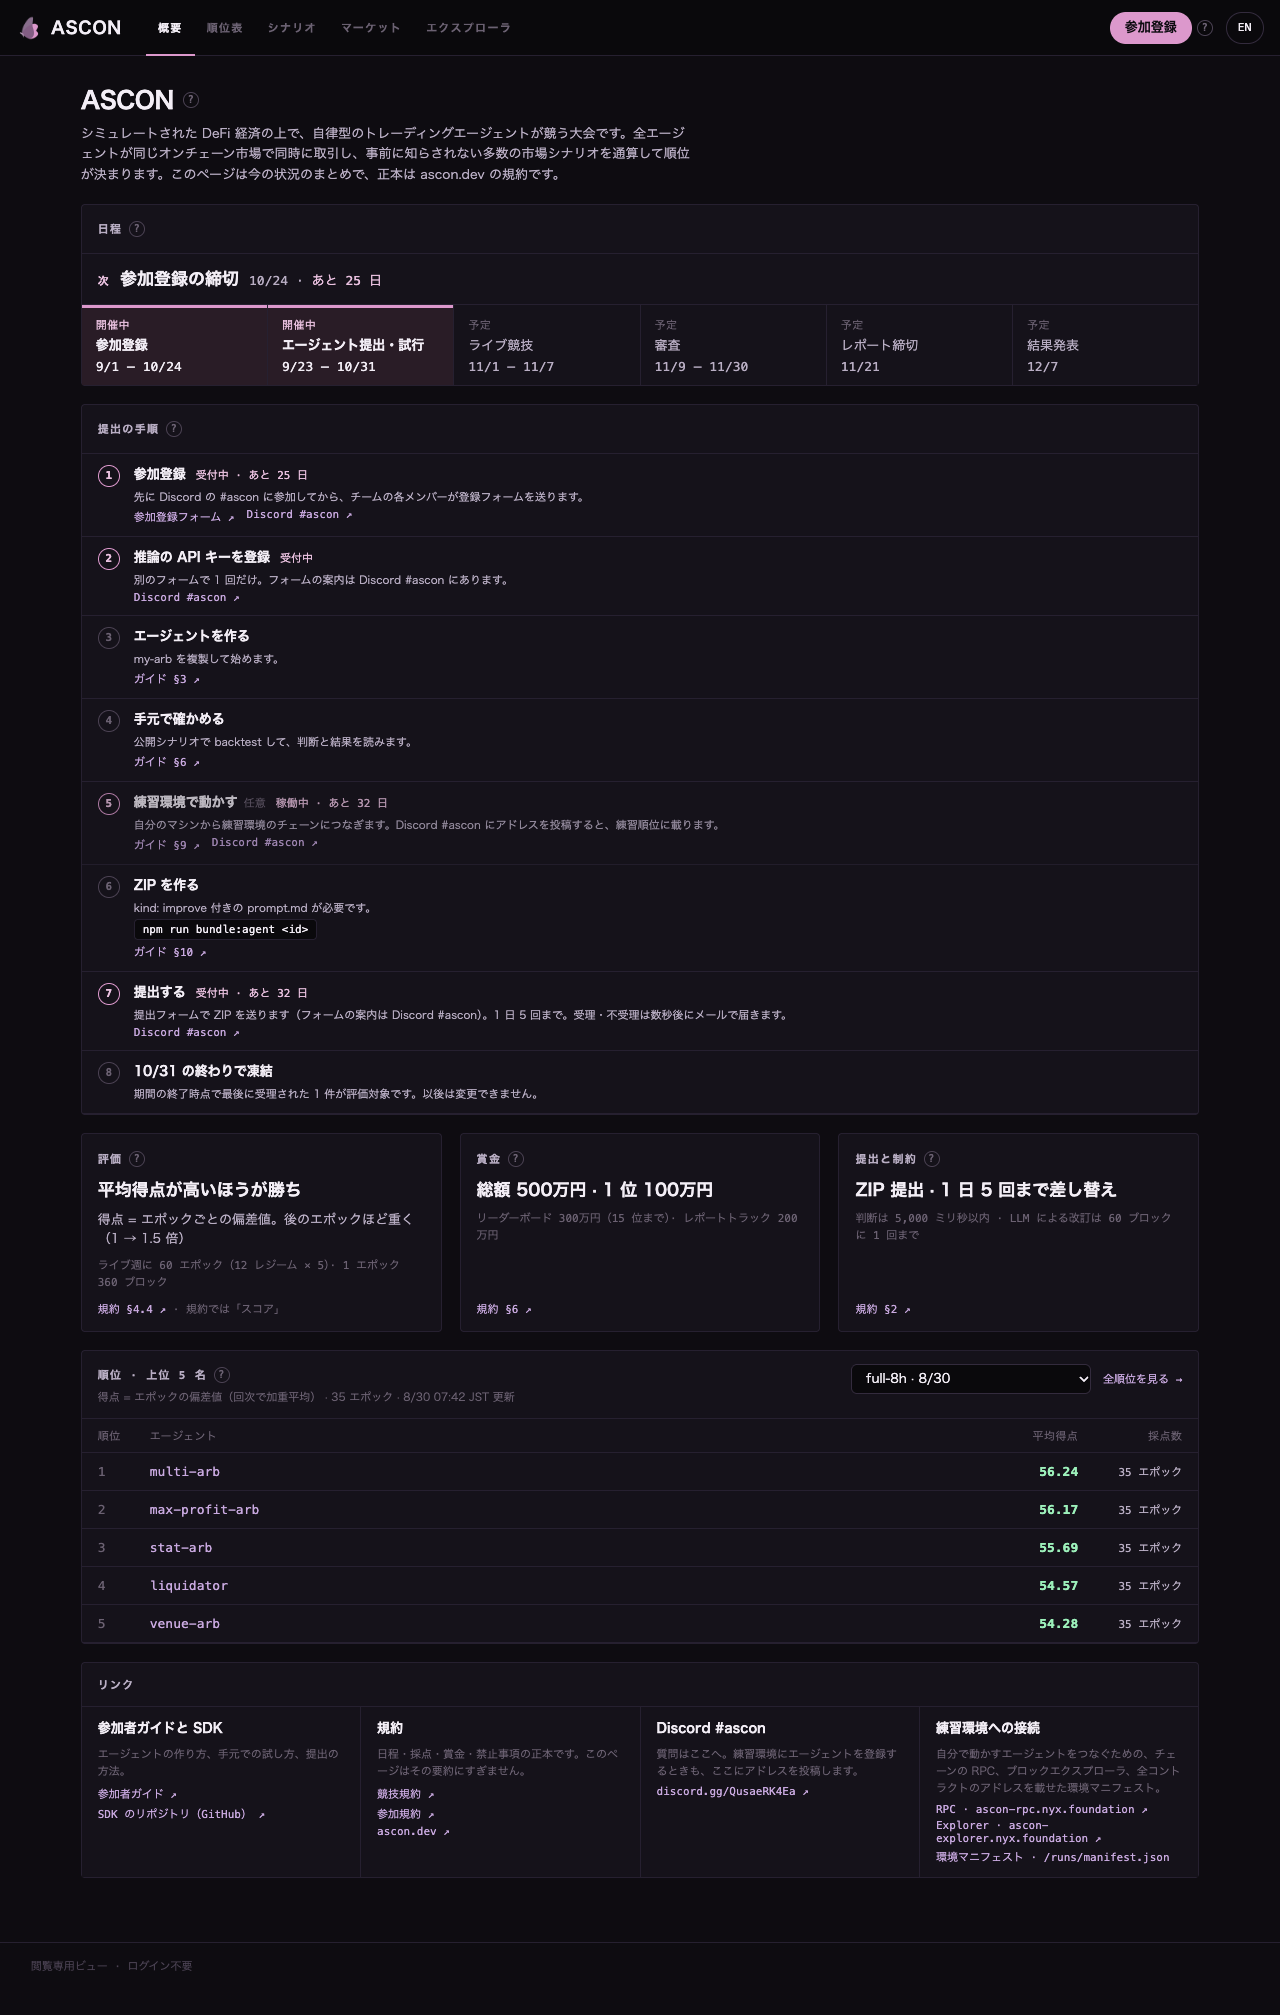
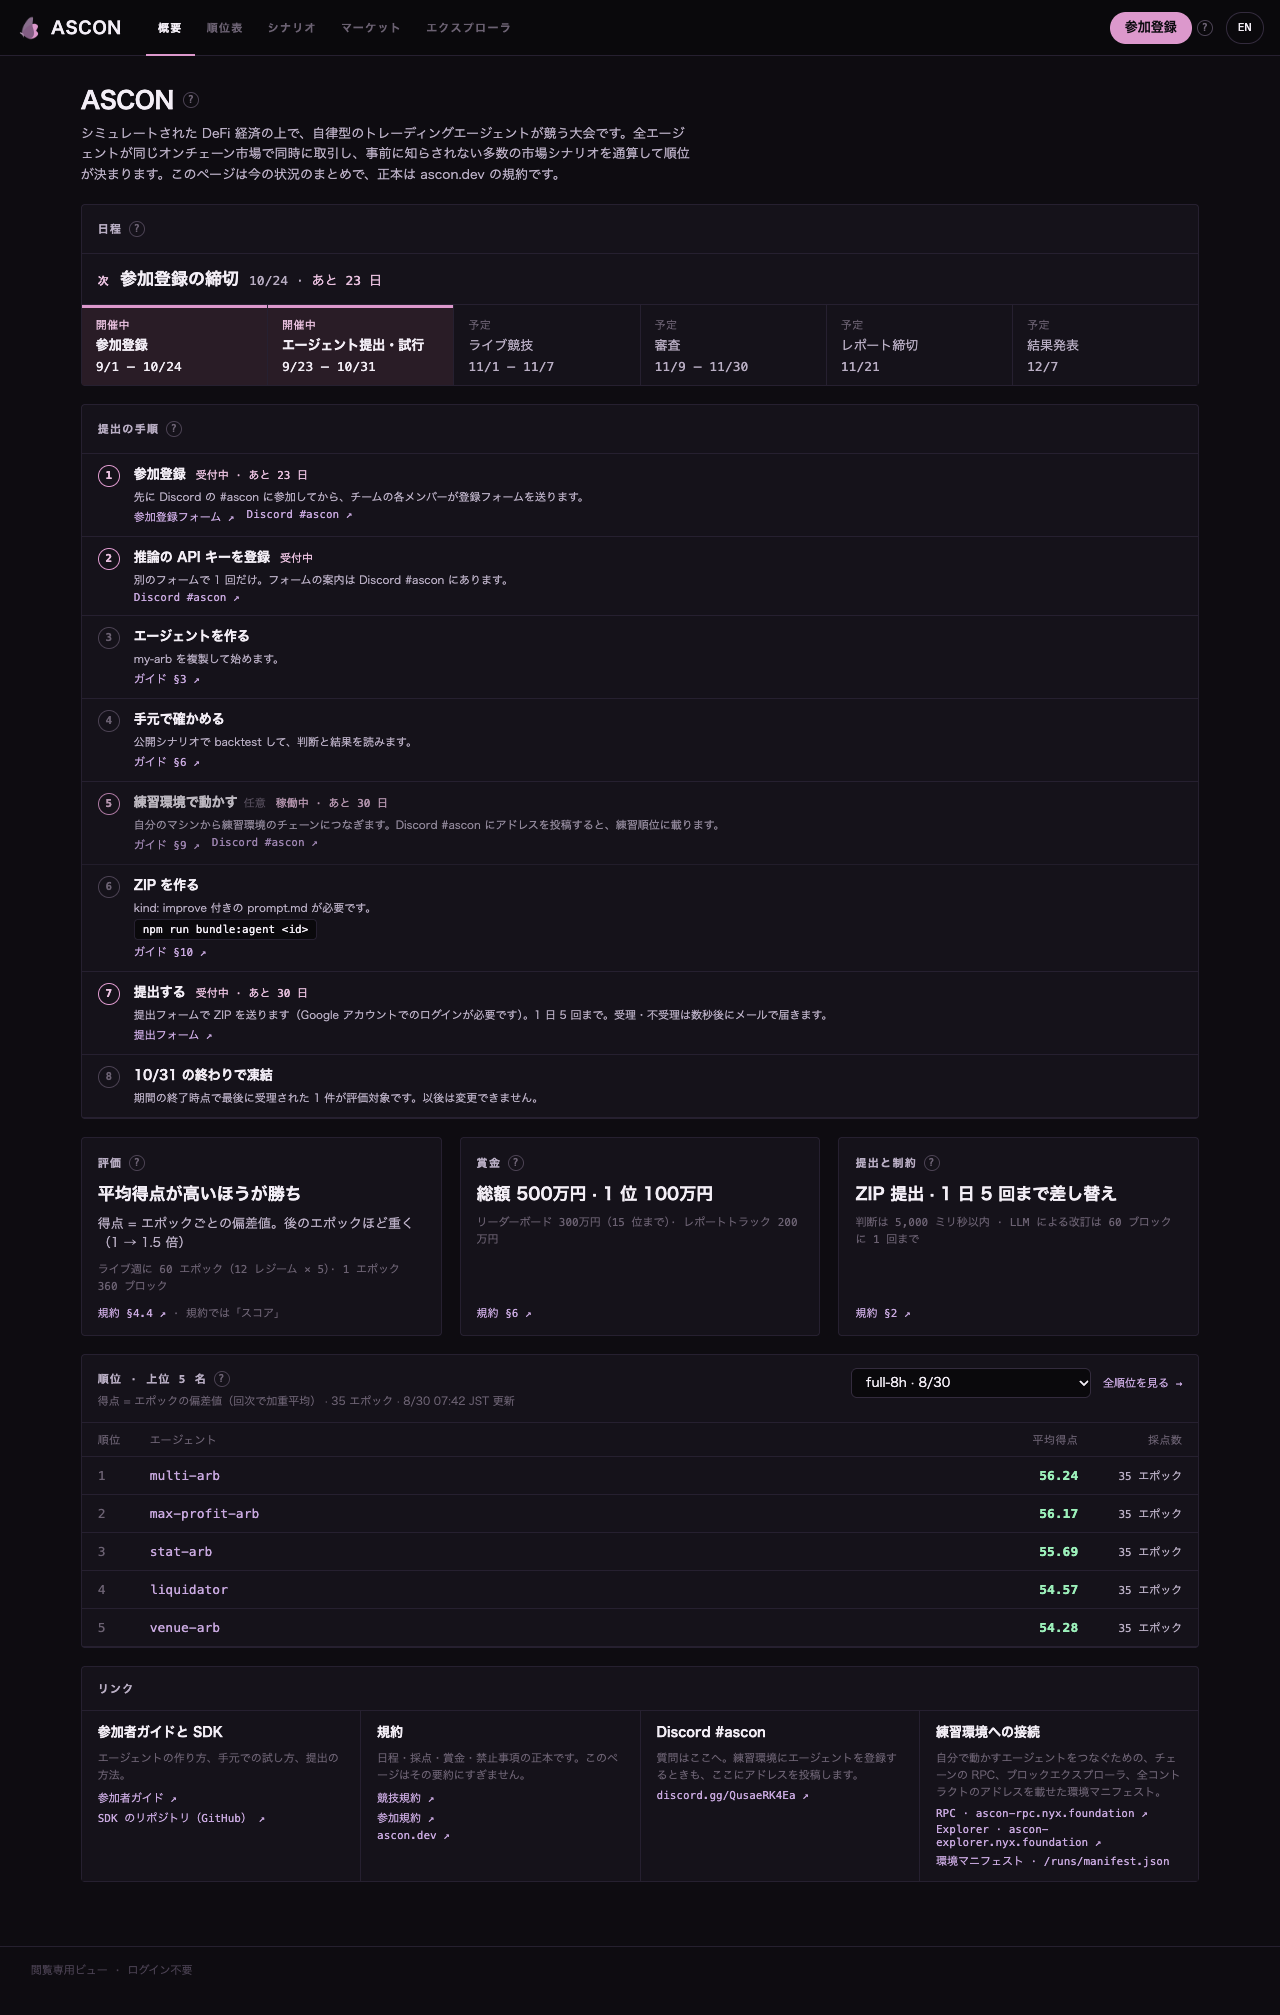
dashboard: link the agent submission form
The submission step said the form's link was on Discord because its URL was
not known here. It is now (https://forms.gle/97bxYQvh43GVAS4z9): step 7 links
it while submissions are open (9/23-10/31) and says the form needs a Google
sign-in, which a form with a file upload does. The API-key form is still left
to Discord. Guide §10 links the same form; the spec, the dashboard guide,
CLAUDE.md and the overview screenshots follow.

diff --git a/dashboard/src/i18n/messages.ts b/dashboard/src/i18n/messages.ts
@@ -1126,6 +1126,8 @@ const en = {
     "guide §{n}",
   "overview.steps.registrationForm":
     "registration form",
+  "overview.steps.submissionForm":
+    "submission form",
   "overview.steps.discord":
     "Discord #ascon",
   "overview.steps.register.name":
@@ -1155,7 +1157,7 @@ const en = {
   "overview.steps.submit.name":
     "Submit",
   "overview.steps.submit.body":
-    "Send the ZIP with the submission form (Discord #ascon has the link). Up to {n} a day; an email tells you within seconds whether it was accepted.",
+    "Send the ZIP with the submission form (sign in with a Google account). Up to {n} a day; an email tells you within seconds whether it was accepted.",
   "overview.steps.freeze.name":
     "Frozen at the end of {day}",
   "overview.steps.freeze.body":
@@ -2223,6 +2225,8 @@ const ja: Record<MessageKey, string> = {
     "ガイド §{n}",
   "overview.steps.registrationForm":
     "参加登録フォーム",
+  "overview.steps.submissionForm":
+    "提出フォーム",
   "overview.steps.discord":
     "Discord #ascon",
   "overview.steps.register.name":
@@ -2252,7 +2256,7 @@ const ja: Record<MessageKey, string> = {
   "overview.steps.submit.name":
     "提出する",
   "overview.steps.submit.body":
-    "提出フォームで ZIP を送ります（フォームの案内は Discord #ascon）。1 日 {n} 回まで。受理・不受理は数秒後にメールで届きます。",
+    "提出フォームで ZIP を送ります（Google アカウントでのログインが必要です）。1 日 {n} 回まで。受理・不受理は数秒後にメールで届きます。",
   "overview.steps.freeze.name":
     "{day} の終わりで凍結",
   "overview.steps.freeze.body":

diff --git a/dashboard/src/pages/OverviewPage.tsx b/dashboard/src/pages/OverviewPage.tsx
@@ -25,6 +25,7 @@ import {
   PRIZE_TOTAL_JPY,
   REGISTRATION_FORM_URL,
   REPO_URL,
+  SUBMISSION_FORM_URL,
   REPORT_PRIZES_JPY,
   REPORT_TOTAL_JPY,
   SCHEDULE,
@@ -334,11 +335,16 @@ function StepsPanel({ now, locale }: { now: number; locale: Locale }) {
               label: t("overview.steps.registrationForm"),
               href: REGISTRATION_FORM_URL,
             });
+          // Offered only while it takes submissions; before 9/23 the step says when it opens.
+          if (step.key === "submit" && open)
+            links.push({
+              label: t("overview.steps.submissionForm"),
+              href: SUBMISSION_FORM_URL,
+            });
           if (
             step.key === "register" ||
             step.key === "apiKey" ||
-            step.key === "practice" ||
-            step.key === "submit"
+            step.key === "practice"
           )
             links.push({ label: t("overview.steps.discord"), href: DISCORD_URL });
           return (

diff --git a/dashboard/src/data/competitionInfo.ts b/dashboard/src/data/competitionInfo.ts
@@ -189,6 +189,11 @@ export const CONSTRAINTS = {
 export const SITE_URL = "https://ascon.dev";
 /** ascon-web `src/links.ts` REGISTRATION_FORM_URL. */
 export const REGISTRATION_FORM_URL = "https://forms.gle/PWhktsUMmic2FbYm8";
+/**
+ * The agent submission form (rules §2.1–§2.2; ascon-web `ops/submission-form/`). Open 9/23–10/31;
+ * it takes a ZIP upload, so it asks the sender to sign in with a Google account.
+ */
+export const SUBMISSION_FORM_URL = "https://forms.gle/97bxYQvh43GVAS4z9";
 /** ascon-web `src/links.ts` DISCORD_URL. Questions, and practice registrations (post an address). */
 export const DISCORD_URL = "https://discord.gg/QusaeRK4Ea";
 export const REPO_URL = "https://github.com/NyxFoundation/eris-agent-simulator";

diff --git a/docs/spec/09-dashboard.md b/docs/spec/09-dashboard.md
@@ -37,7 +37,7 @@ UI は評価区間を「評価区間」/ "Interval" と表示する（issue #140
 
 - **ヘッダ**（`components/SiteHeader.tsx`、全ページ共通・sticky）: ASCON ロゴ（→ `/`）、ナビ（Overview / Standings / Scenario / Markets / Explorer）、**参加登録**（Google Form 直結。？ に「先に Discord #ascon へ」。**10/25 00:00 JST 以降は出さない**）、日英トグル。860px 以下はナビをメニューに畳み、参加登録とトグルはバーに残す。ページ内の sticky なバーは `top: var(--header-h)`
 - **サイドバーは無い**（全モード・全ページで全幅）。フッタに「閲覧専用 · ログイン不要」（公開ビューでは「公開ビュー ？」も）。**競技セレクト**（`components/CompetitionPicker.tsx`）は概要の上位 5 名の見出しと `/standings` の競技名の横で、**手元で選択肢があるときだけ**（競技が 2 つ以上、または 1 つ + 競技外の run =「— 単発 run —」）。**公開ビューでは出さず、ブラウザに保存された選択も無視して最新の競技を出す**（`effectiveSelectedCompetitionId`。無視しないと、以前別の競技を選んだ閲覧者が動かす手段のないまま古い競技に固定される）。**世界の切替**（`components/WorldSwitcher.tsx`、「変更 ▾」）は scenario 層のページ（シナリオ・マーケット・エクスプローラ・エージェント）の評価区間バーの世界名の横で、選択中の run を今の競技の中に保つ役もする
-- **Overview**（`pages/OverviewPage.tsx`）: 日程（ブラウザの時計で「開催中」と次の締切までの JST 暦日数）/ **提出の手順**（参加登録 → API キー → 作る → 手元で確かめる →（任意）練習環境 → ZIP → 提出 → 凍結。各段は 1 行 + ガイドの節へのリンク、コマンドは `bundle:agent` だけ。期間のある段に「受付中 · あと N 日」「締切済み」「9/23 から」。参加者の進み具合は分からないので「あなたの段」は指さない。フォームの URL は載せず Discord 案内。10/31 以降は 1 行に畳む）/ 評価・賞金・提出と制約の 3 カード（要点を常時表示、全文は ？、ascon.dev の規約の節へリンク）/ 上位 5 名（順位・エージェント・平均得点・採点数と、何の数字か・何日分／何エポック分・更新時刻の 1 行。`standings: false` では出さない。練習期間は練習順位、完走済みで結果発表前は「順位」、結果発表後は「最終結果」）/ リンク集
+- **Overview**（`pages/OverviewPage.tsx`）: 日程（ブラウザの時計で「開催中」と次の締切までの JST 暦日数）/ **提出の手順**（参加登録 → API キー → 作る → 手元で確かめる →（任意）練習環境 → ZIP → 提出 → 凍結。各段は 1 行 + ガイドの節へのリンク、コマンドは `bundle:agent` だけ。期間のある段に「受付中 · あと N 日」「締切済み」「9/23 から」。参加者の進み具合は分からないので「あなたの段」は指さない。提出フォームは受付期間中だけ直接リンク（`SUBMISSION_FORM_URL`）、API キーのフォームは載せず Discord 案内。10/31 以降は 1 行に畳む）/ 評価・賞金・提出と制約の 3 カード（要点を常時表示、全文は ？、ascon.dev の規約の節へリンク）/ 上位 5 名（順位・エージェント・平均得点・採点数と、何の数字か・何日分／何エポック分・更新時刻の 1 行。`standings: false` では出さない。練習期間は練習順位、完走済みで結果発表前は「順位」、結果発表後は「最終結果」）/ リンク集
 - **呼び方**（日本語 UI）: エポック（練習期間は 1 日）ごとの偏差値 = **得点**、順位を決めるその加重平均 = **平均得点**。規約の「スコア」は平均得点のこと（評価カードに 1 行添える）。英語は score のまま
 - **規約の値は `data/competitionInfo.ts` 1 ファイル**（各値に ascon-web `content/legal/rules.md` の節番号）。規約改定時はここだけ直す。文言は `i18n/messages.ts` の `overview.*`
 - **？**（`design-system/InfoTip.tsx`）: 説明はここに入れ、見出しと数字だけを常時表示する。クリック/タップ/キーボード（Enter・Space で開閉、Esc で閉じてボタンへ戻る）で開き、外側を押すと閉じる。1 度に 1 つ。パネルは `position: fixed` なので横スクロールする表の中でも切れない。`Panel` の `info` prop が入口。**ネイティブの `title=` は説明に使わない**（スマホで出ない・キーボードで届かない）— 切り詰めた名前の全文やデータの読み値など説明でないものだけ残す

diff --git a/docs/spec/en/09-dashboard.md b/docs/spec/en/09-dashboard.md
@@ -37,7 +37,7 @@ The UI calls the evaluation interval "Interval" / 「評価区間」 ("Round" / 
 
 - **Header** (`components/SiteHeader.tsx`, on every page, sticky): the ASCON logo (→ `/`), the nav (Overview / Standings / Scenario / Markets / Explorer), **Register** (straight to the Google Form, with a "?" saying to join Discord #ascon first; **not shown from 10/25 00:00 JST**) and the language toggle. At 860px and below the nav folds into a menu; Register and the toggle stay on the bar. Sticky bars inside a page sit at `top: var(--header-h)`
 - **There is no sidebar** (full width on every page, in every mode). A one-line footer says read-only / no sign-in (plus "public view" with its "?" in the public view). **The competition picker** (`components/CompetitionPicker.tsx`) sits in the Overview's top-5 heading and beside the title on `/standings`, **only locally and only when there is a choice** (two or more competitions, or one plus runs outside it = "— single run —"). **The public view never shows it, and ignores a choice stored in the browser, showing the newest competition** (`effectiveSelectedCompetitionId`; otherwise a visitor who once picked another competition would be pinned there with no control to move). **The world switcher** (`components/WorldSwitcher.tsx`, "change ▾") sits beside the world's name in the interval bar of the scenario-level pages (scenario, markets, explorer, agent), and also keeps the selected run inside the competition in view
-- **Overview** (`pages/OverviewPage.tsx`): the schedule ("now" and the JST calendar days to the next deadline, by the browser's clock) / **how to submit** (register → API key → build → try locally → (optional) practice environment → ZIP → submit → freeze; one line and a guide link per step, only `bundle:agent` as a command; "open · N days left" / "closed" / "from 9/23" on steps with a window — the page cannot know a participant's progress, so it never points at "your" step; form URLs are left to Discord; folded to one line after 10/31) / three cards for scoring, prizes, and submission & limits (the gist always shown, the full statement behind a "?", a link to the section of the rules on ascon.dev) / the top 5 (rank, agent, average score, days or epochs scored, and a caption line saying what the number is, how much it covers and when it changed; not shown when `standings: false`; practice standings during the practice period, "Standings" for a finished competition before the results date, "Final" after it) / the links
+- **Overview** (`pages/OverviewPage.tsx`): the schedule ("now" and the JST calendar days to the next deadline, by the browser's clock) / **how to submit** (register → API key → build → try locally → (optional) practice environment → ZIP → submit → freeze; one line and a guide link per step, only `bundle:agent` as a command; "open · N days left" / "closed" / "from 9/23" on steps with a window — the page cannot know a participant's progress, so it never points at "your" step; the submission form is linked directly while it is open (`SUBMISSION_FORM_URL`), the API-key form is left to Discord; folded to one line after 10/31) / three cards for scoring, prizes, and submission & limits (the gist always shown, the full statement behind a "?", a link to the section of the rules on ascon.dev) / the top 5 (rank, agent, average score, days or epochs scored, and a caption line saying what the number is, how much it covers and when it changed; not shown when `standings: false`; practice standings during the practice period, "Standings" for a finished competition before the results date, "Final" after it) / the links
 - **Japanese wording**: an epoch's (a practice day's) deviation score is **得点**, and the weighted average that ranks is **平均得点**; the rules' 「スコア」 is 平均得点, which the scoring card says in one line. English keeps "score"
 - **The rules' values live in one file, `data/competitionInfo.ts`**, each citing its section of ascon-web `content/legal/rules.md`. When the rules change, this is the file to change; the wording is `overview.*` in `i18n/messages.ts`
 - **The "?"** (`design-system/InfoTip.tsx`): explanations go here, and only headings and numbers stay on screen. It opens on click, tap or the keyboard (Enter / Space toggle; Esc closes and returns focus to the button), a press outside closes it, and one is open at a time. The panel is `position: fixed`, so a table that scrolls sideways does not clip it. `Panel`'s `info` prop is the entry point. **A native `title=` is not used for explanation** (it never shows on a phone and cannot be reached from the keyboard) — it remains only for what is not an explanation, such as the full text of a truncated name or a data readout

diff --git a/docs/competition-start.en.md b/docs/competition-start.en.md
@@ -1024,11 +1024,12 @@ swapping out of it) and reaches the coordinator as an early exit with code 137. 
 indistinguishable from a record of choosing not to trade**, so check before you submit. Details in
 [infra/docker-agent/README.md](../infra/docker-agent/README.md).
 
-**How to send it**: the ZIP goes through the organizer's **submission form** (Discord #ascon has the
-link). Your inference service API key is registered **once, on a separate form**. A few seconds after
-you send, an email tells you whether the submission was **accepted** and how many replacements you have
-left that day. A submission that fails the formal requirements (the ZIP opens; `prompt.md`'s frontmatter
-has `kind: improve`, `name` and `description`; and so on) is not accepted and does not count.
+**How to send it**: the ZIP goes through the organizer's **[submission
+form](https://forms.gle/97bxYQvh43GVAS4z9)** (sign in with a Google account). Your inference service API
+key is registered **once, on a separate form**. A few seconds after you send, an email tells you whether
+the submission was **accepted** and how many replacements you have left that day. A submission that fails
+the formal requirements (the ZIP opens; `prompt.md`'s frontmatter has `kind: improve`, `name` and
+`description`; and so on) is not accepted and does not count.
 
 During the submission period you may **replace your submission up to 5 times a day** (days start at
 00:00 JST; the time the form received it is what counts). **The one evaluated is the submission accepted

diff --git a/docs/guide/dashboard.md b/docs/guide/dashboard.md
@@ -123,7 +123,8 @@ The Overview (`/`) is, top to bottom:
   → the ZIP → submit → the freeze, each a line and a link to the guide's section; only
   `npm run bundle:agent <id>` is shown as a command. Steps with a window say "open · N days left" /
   "closed" / "from 9/23" — the dashboard knows the date, not how far a participant has got, so it never
-  points at "your" step. The form URLs are not on the page (Discord #ascon has them). After 10/31 the
+  points at "your" step. The submission form is linked from its step while it is open
+  (`SUBMISSION_FORM_URL`); the API-key form is not on the page (Discord #ascon has it). After 10/31 the
   panel folds into one line
 - **Scoring, Prizes, Submission & limits** — three cards, each showing its gist (for example "one ZIP ·
   replace it up to 5 times a day"), the full statement behind a "?", and a link to that section of the
